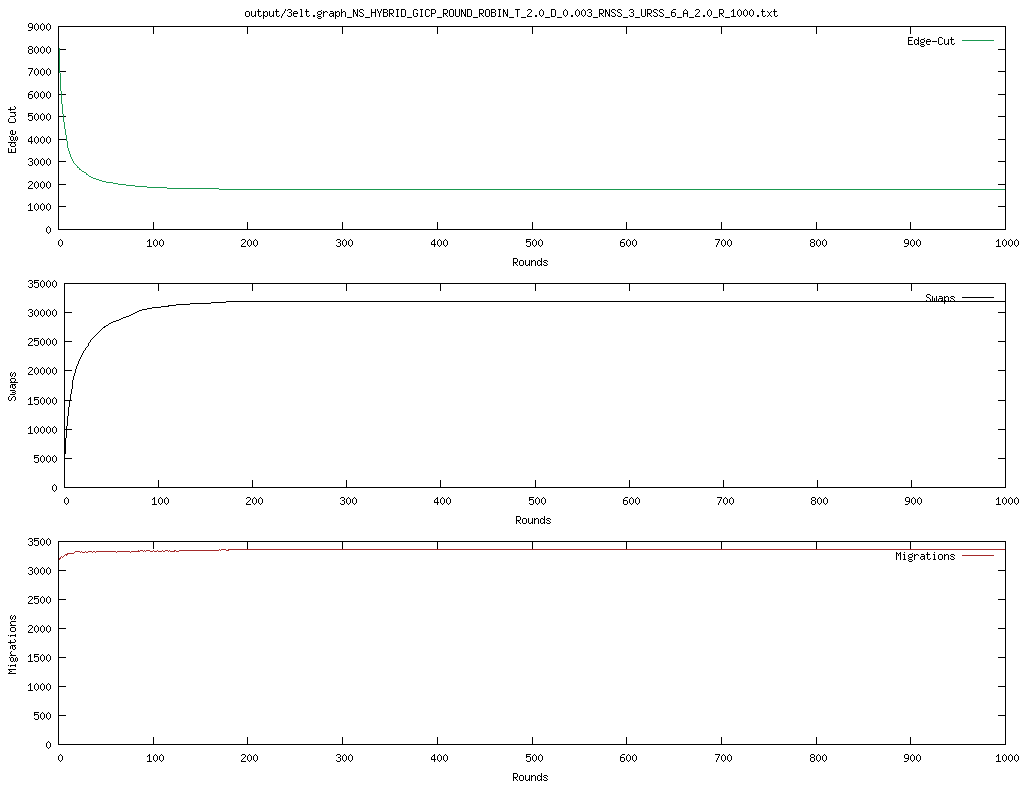
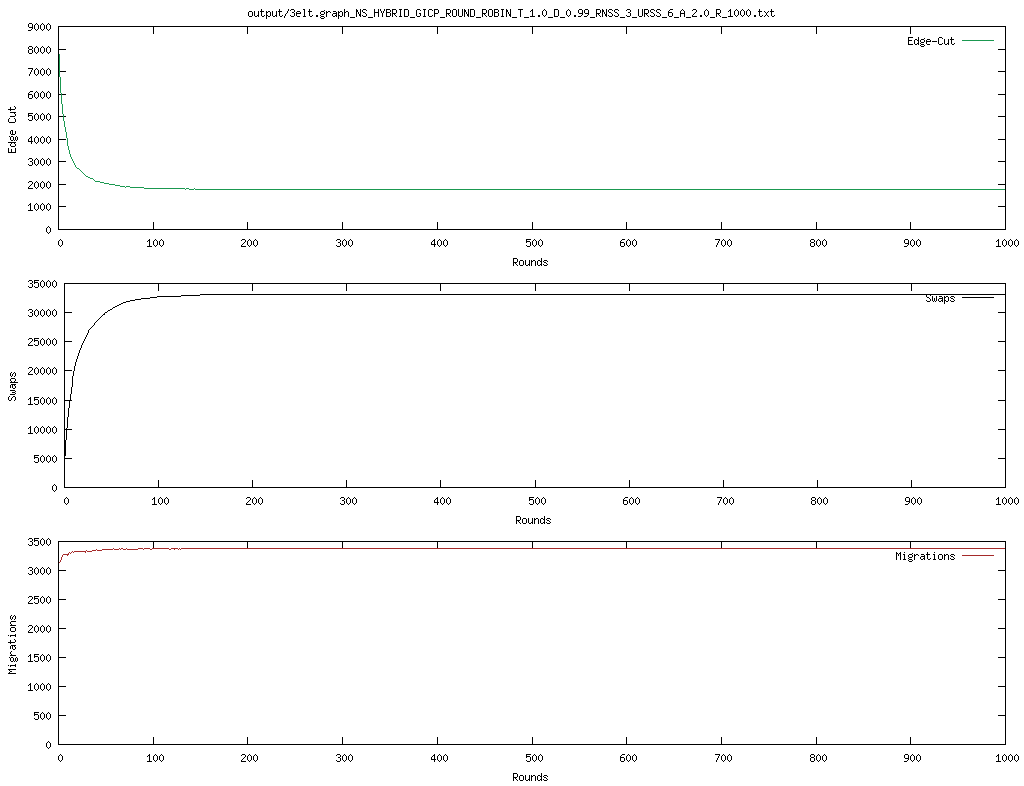
finally... finished all assignments orz

Changed region(s): [[0.25, 0.0, 0.75, 0.0305]]

diff --git a/Homework5/id2222-master/src/main/java/se/kth/jabeja/Jabeja.java b/Homework5/id2222-master/src/main/java/se/kth/jabeja/Jabeja.java
@@ -28,8 +28,10 @@ public class Jabeja {
     private int bestResult = 1000000;
 
     private Random random = new Random();
+
+    private float delta = 0.0f;
     
-    final static int restartThreshold = 10;
+    final static int restartThreshold = 100;
 
     // -------------------------------------------------------------------
     public Jabeja(HashMap<Integer, Node> graph, Config config) {
@@ -39,6 +41,8 @@ public class Jabeja {
         this.numberOfSwaps = 0;
         this.config = config;
         this.T = config.getTemperature();
+        
+        this.delta = config.getDelta();
     }
 
     // -------------------------------------------------------------------
@@ -52,10 +56,8 @@ public class Jabeja {
             // reduce the temperature
             saCoolDown();
             report();
-            if (round > 500) {
-                restart();
-            }
-            bestResult = Math.min(bestResult, currentEdgeCut);
+            restart();
+            // bestResult = Math.min(bestResult, currentEdgeCut);
         }
     }
 
@@ -68,6 +70,7 @@ public class Jabeja {
             edgeCutNOTChange ++;
             if (edgeCutNOTChange == restartThreshold) {
                 T = config.getTemperature();
+                delta = delta / 1.25f;
                 edgeCutNOTChange = 0;
             }
         }
@@ -92,8 +95,8 @@ public class Jabeja {
         //     T = 1;
 
         double eps = 0.00001;
-        while (T > eps) {
-            T *= config.getDelta();
+        if (T > eps) {
+            T *= delta;
         }
     }
 
@@ -292,7 +295,7 @@ public class Jabeja {
 
         currentEdgeCut = edgeCut;
 
-        edgeCut = Math.min(edgeCut, bestResult);
+        // edgeCut = Math.min(edgeCut, bestResult);
 
 
         logger.info("round: " + round +
